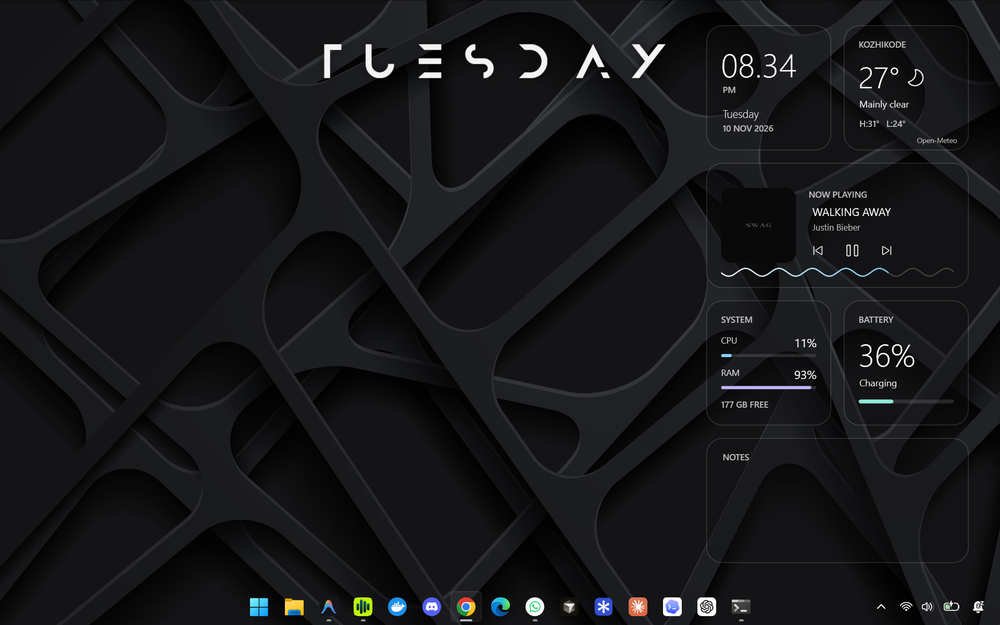
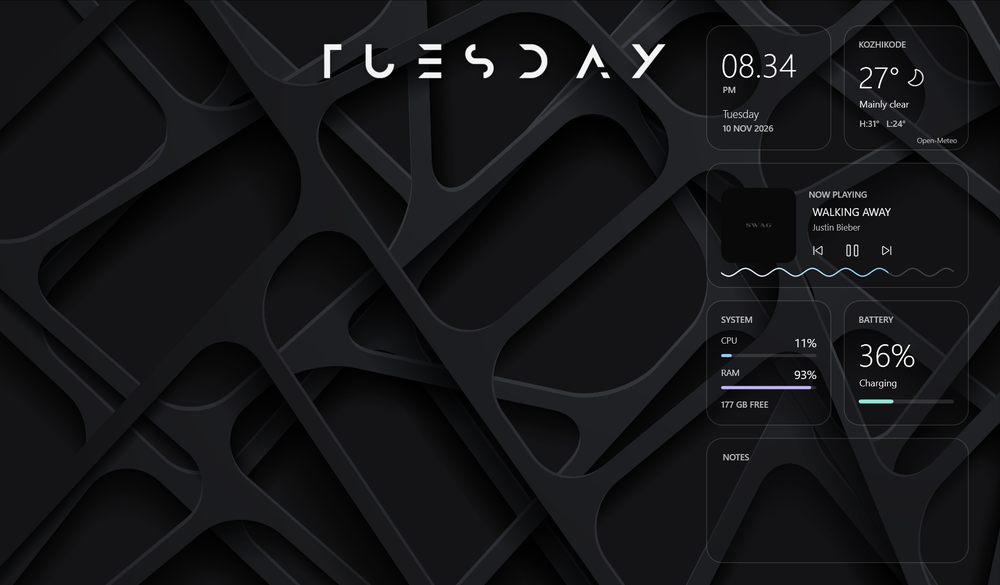
Crop the taskbar out of the README screenshot

diff --git a/README.md b/README.md
@@ -15,10 +15,10 @@
 
 <p align="center">
   <img src="docs/images/desktop.png" width="100%"
-       alt="A Windows 11 desktop with Nilam running: the word TUESDAY in large spaced capitals across the top, and on the right a clock, weather for Kozhikode, a now-playing card with a wave progress bar, system stats, battery and notes. The taskbar at the bottom is fully see-through, showing the dark wallpaper behind its icons.">
+       alt="A Windows 11 desktop with Nilam running on a dark wallpaper: the word TUESDAY in large spaced capitals across the top, and on the right a clock, weather for Kozhikode, a now-playing card with a wave progress bar, system stats, battery and notes.">
 </p>
 <p align="center"><sub>
-  A real desktop, with the <a href="#the-clear-taskbar">clear taskbar</a> on.
+  A real desktop running Nilam.
 </sub></p>
 
 > *Nilam* (നിലം) is Malayalam for the ground: the layer everything else stands
